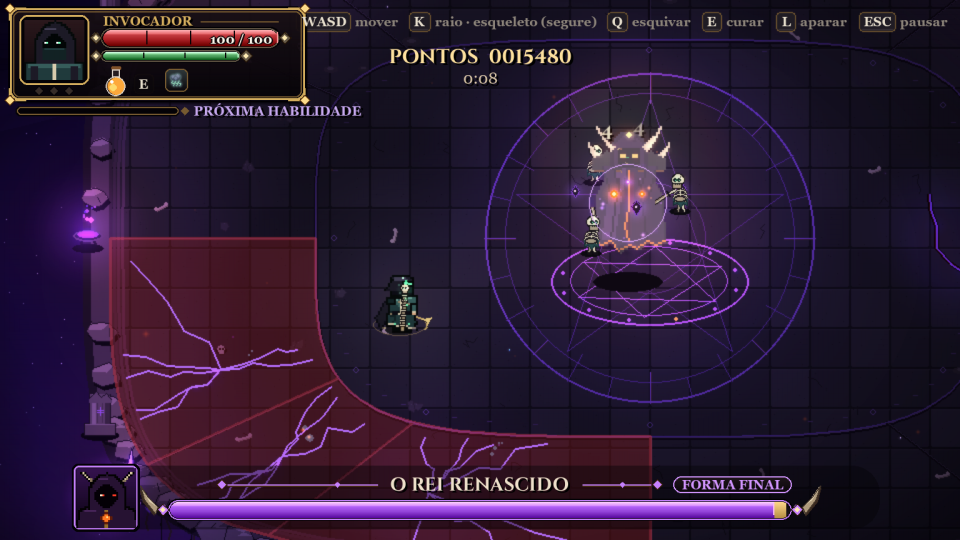
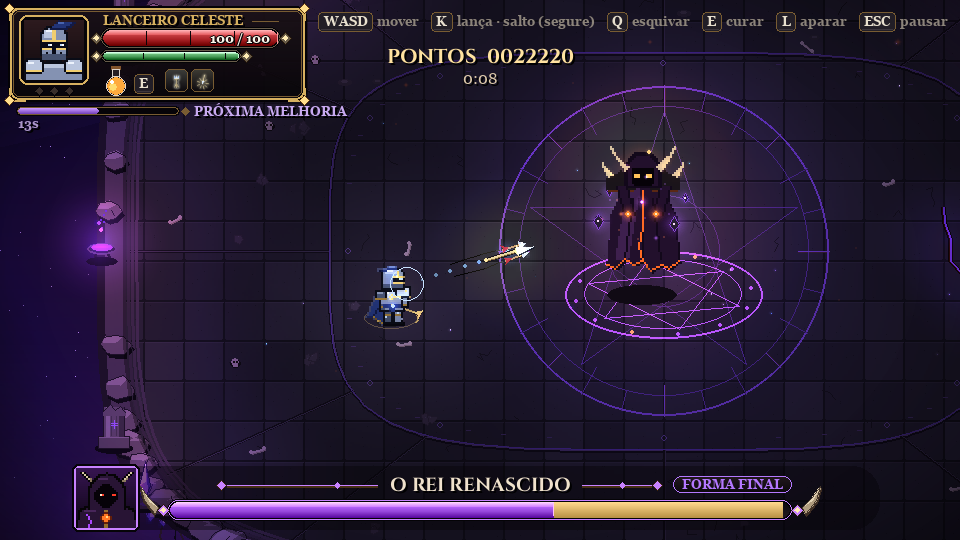
Versão 1.3.0: Lanceiro Celeste, controles personalizáveis e avisos dourados

diff --git a/README.md b/README.md
@@ -7,7 +7,7 @@ tempo certo e derrube o **Rei das Cinzas**. E, se ele renascer das próprias cin
 
 ## Baixar e jogar
 
-1. Vá em **[Releases](../../releases)** e baixe `Instalar_AshenThrone_v1.2.0.exe`.
+1. Vá em **[Releases](../../releases)** e baixe `Instalar_AshenThrone_v1.3.0.exe`.
 2. Abra o instalador e clique em **Instalar**. Não precisa de administrador (funciona em computador de escola).
 3. Jogue pelo atalho **Ashen Throne** na Área de Trabalho ou no Menu Iniciar.
 
@@ -31,7 +31,8 @@ Os recordes ficam guardados, a não ser que você marque para apagar.
 Quando o rei cai, ele renasce como mago e **leva a arena para os céus**: a luta final é numa ilha de
 pedra flutuando entre as estrelas. A Chama oferece a forma final: **Arqueiro** (flechas e tiro
 carregado), **Mago** (bolas de energia que perseguem o alvo e, carregando, uma rajada de 4 bolas) ou
-**Invocador** (raios e esqueletos que lutam por você).
+**Lanceiro Celeste** (joga a lança, que atravessa o chefe e crava no chão, puxa de volta
+acertando de novo e salta até ela num rastro de luz).
 
 ![Forma final](imagens/forma_final.png)
 ![Nos céus](imagens/ceus.png)
@@ -47,6 +48,18 @@ carregado), **Mago** (bolas de energia que perseguem o alvo e, carregando, uma r
 | Curar | E | Y | Triângulo |
 | Aparar | L / botão direito | LB ou LT | L1 ou L2 |
 | Pausar | ESC | Start | Options |
+
+Não gostou de alguma tecla? Em **Configurações > Controles** dá para trocar qualquer tecla do teclado e
+qualquer botão do controle.
+
+## Novidades da 1.3.0
+
+- **Nova classe da forma final: Lanceiro Celeste**, no lugar do Invocador (veja acima).
+- **Controles personalizáveis**: troque teclas e botões em Configurações > Controles.
+- **Avisos dourados** nos golpes que dá para aparar (com um escudinho em cima do rei); os vermelhos são
+  só para esquivar.
+- **Uma carta de melhoria a cada 25 segundos** de luta, nas duas formas, com contagem "MELHORIA EM 3, 2, 1".
+- O menu principal agora muda de idioma junto com o resto do jogo.
 
 ## Idiomas
 
